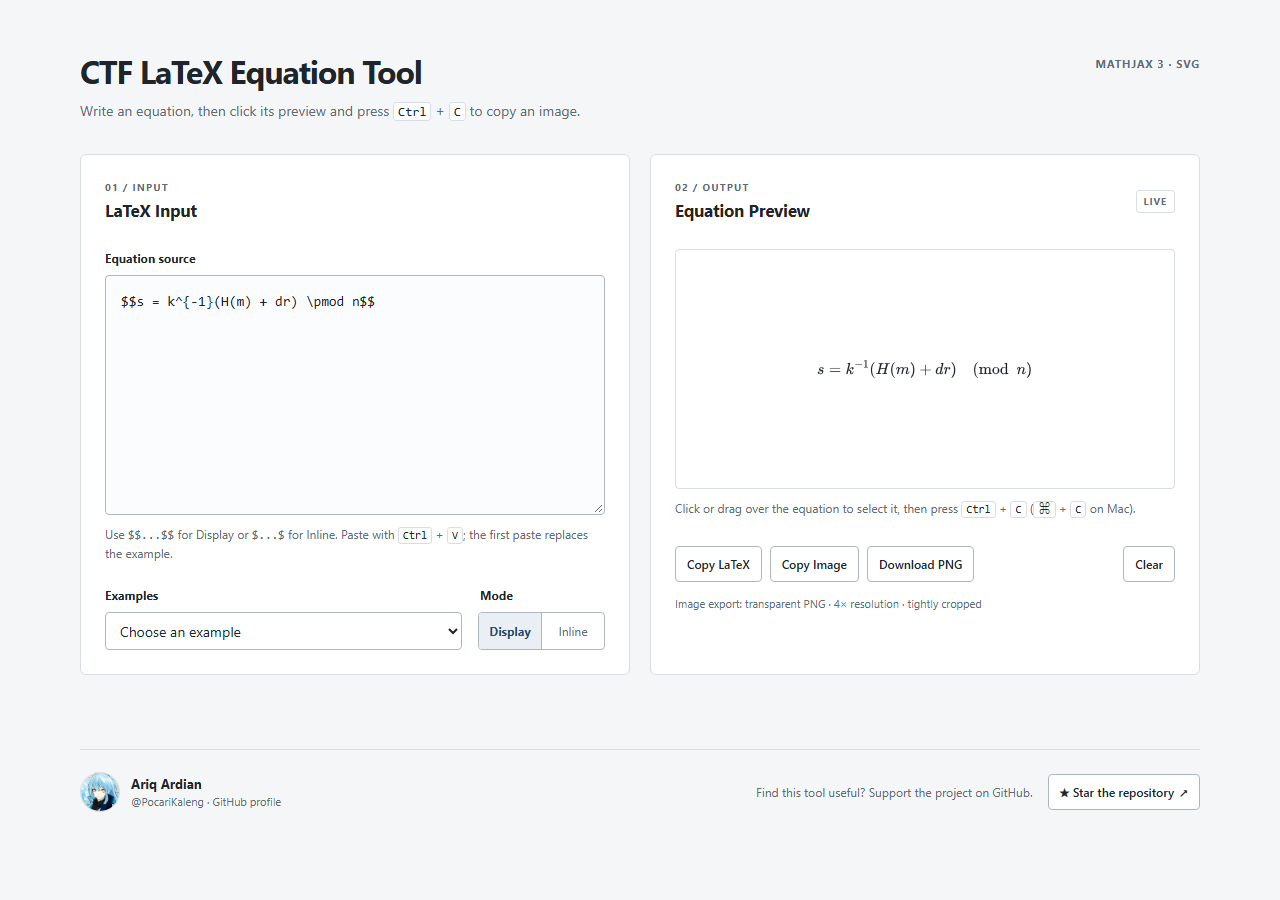
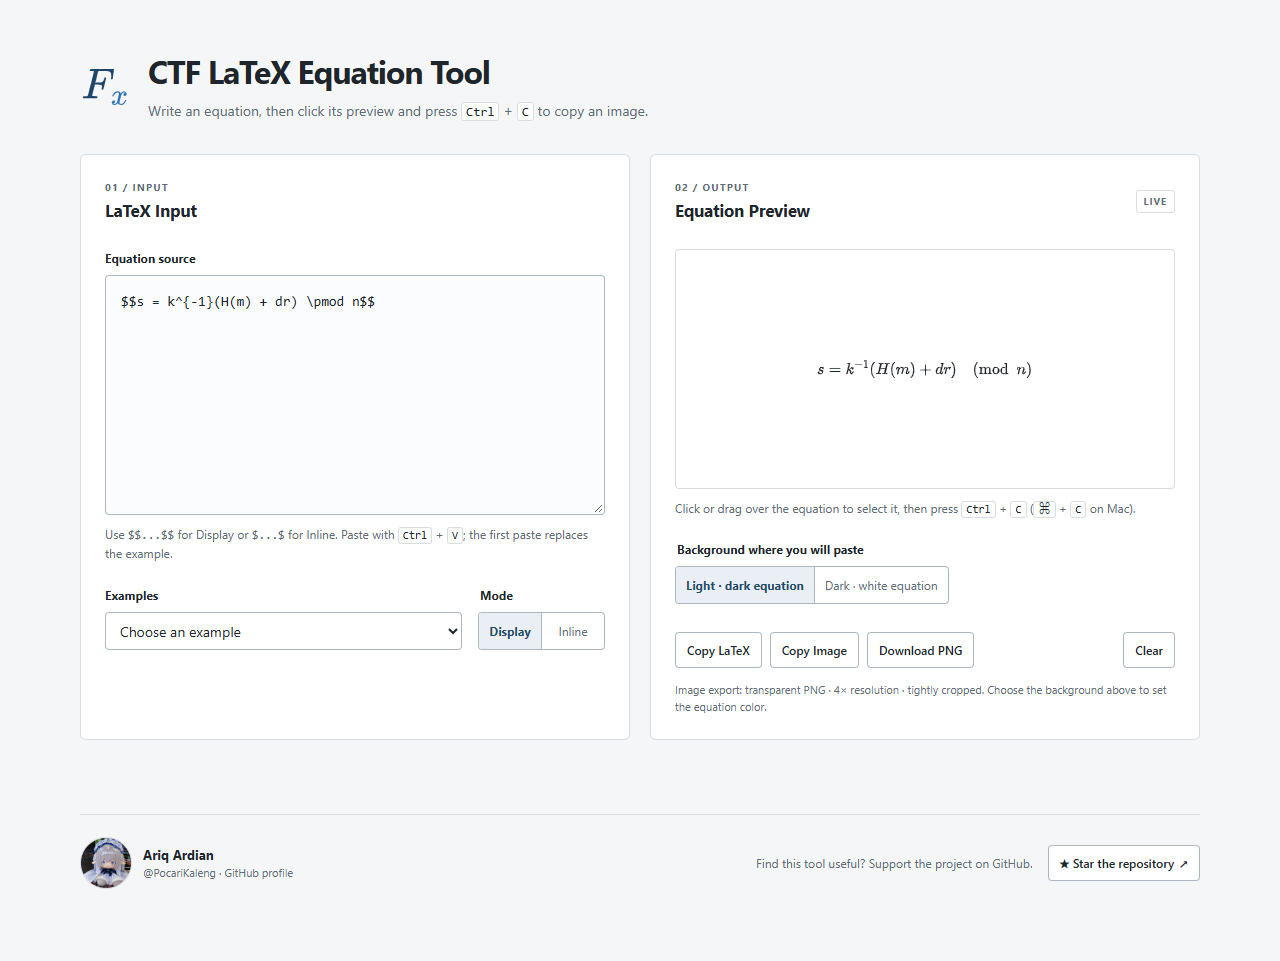
Update creator photo and add math monogram

diff --git a/style.css b/style.css
@@ -27,6 +27,8 @@ button, select, textarea { font: inherit; }
 .app-shell { width: min(1120px, calc(100% - 48px)); margin: 0 auto; padding: 52px 0 72px; }
 
 .app-header { display: flex; align-items: flex-start; justify-content: space-between; gap: 24px; margin-bottom: 32px; }
+.brand-lockup { display: flex; align-items: center; gap: 16px; min-width: 0; }
+.brand-logo { display: block; flex: none; width: 52px; height: 52px; }
 .app-header h1 { margin: 0; font-size: clamp(24px, 3vw, 32px); font-weight: 650; letter-spacing: -0.035em; line-height: 1.2; }
 .app-header p { margin: 10px 0 0; color: var(--muted); }
 
@@ -80,7 +82,7 @@ button:disabled { opacity: 0.5; cursor: not-allowed; }
 .status.is-error { color: var(--error); }
 .project-footer { display: flex; align-items: center; justify-content: space-between; gap: 24px; margin-top: 36px; padding-top: 22px; border-top: 1px solid var(--border); }
 .creator-link { display: inline-flex; align-items: center; gap: 11px; color: var(--ink); text-decoration: none; }
-.creator-link img { width: 40px; height: 40px; flex: none; border: 1px solid var(--border); border-radius: 50%; object-fit: cover; }
+.creator-link img { width: 52px; height: 52px; flex: none; border: 1px solid var(--border); border-radius: 50%; object-fit: cover; }
 .creator-link strong, .creator-link small { display: block; line-height: 1.35; }
 .creator-link strong { font-size: 13px; }
 .creator-link small { margin-top: 2px; color: var(--muted); font-size: 11px; }
@@ -103,6 +105,8 @@ button:disabled { opacity: 0.5; cursor: not-allowed; }
 
 @media (max-width: 420px) {
   .app-shell { width: calc(100% - 24px); padding-top: 24px; }
+  .brand-lockup { align-items: flex-start; gap: 12px; }
+  .brand-logo { width: 42px; height: 42px; }
   .panel { padding: 16px; }
   .actions { gap: 7px; }
   .actions button { flex: 1 1 auto; }

diff --git a/index.html b/index.html
@@ -5,8 +5,8 @@
     <meta name="viewport" content="width=device-width, initial-scale=1">
     <meta name="theme-color" content="#f5f6f7">
     <title>CTF LaTeX Equation Tool</title>
-    <link rel="icon" href="data:,">
-    <link rel="stylesheet" href="style.css?v=20261012-ui">
+    <link rel="icon" type="image/svg+xml" href="assets/fx-logo.svg">
+    <link rel="stylesheet" href="style.css?v=20261020-brand">
     <script>
       window.MathJax = {
         tex: {
@@ -25,9 +25,12 @@
   <body>
     <main class="app-shell">
       <header class="app-header">
-        <div>
-          <h1>CTF LaTeX Equation Tool</h1>
-          <p>Write an equation, then click its preview and press <kbd>Ctrl</kbd> + <kbd>C</kbd> to copy an image.</p>
+        <div class="brand-lockup">
+          <img class="brand-logo" src="assets/fx-logo.svg" alt="" width="52" height="52">
+          <div>
+            <h1>CTF LaTeX Equation Tool</h1>
+            <p>Write an equation, then click its preview and press <kbd>Ctrl</kbd> + <kbd>C</kbd> to copy an image.</p>
+          </div>
         </div>
       </header>
 
@@ -107,7 +110,7 @@
 
       <footer class="project-footer">
         <a class="creator-link" href="https://github.com/PocariKaleng" target="_blank" rel="noopener noreferrer" aria-label="Ariq Ardian on GitHub">
-          <img src="assets/profile.jpg" alt="" width="40" height="40" loading="lazy">
+          <img src="assets/profile.png" alt="" width="52" height="52" loading="lazy">
           <span><strong>Ariq Ardian</strong><small>@PocariKaleng · GitHub profile</small></span>
         </a>
         <div class="project-support">

diff --git a/README.md b/README.md
@@ -39,7 +39,8 @@ The [Pages workflow](.github/workflows/pages.yml) publishes the static site when
 index.html                    Interface and MathJax configuration
 style.css                     Responsive styling
 script.js                     Rendering, clipboard, and PNG export
-assets/profile.jpg            Creator avatar
+assets/profile.png            Creator avatar
+assets/fx-logo.svg            Mathematical Fx logo and favicon
 assets/preview.png            README screenshot
 .github/workflows/pages.yml   GitHub Pages deployment
 README.md                     Project documentation
